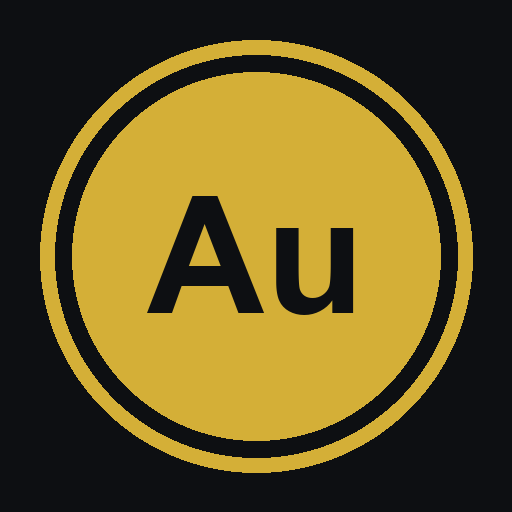
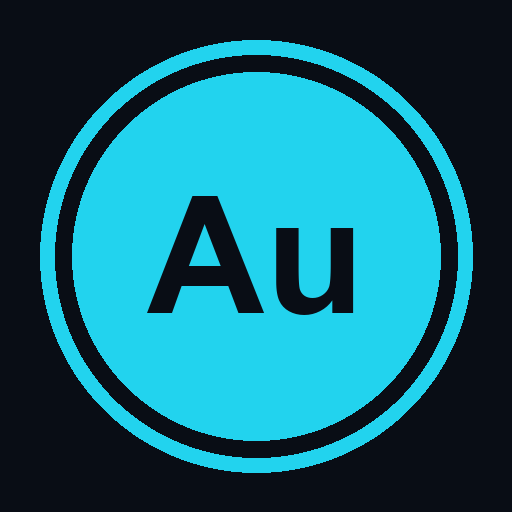
Nouveau thème : sombre néon fintech (bleu/cyan) au lieu de noir/or

diff --git a/css/style.css b/css/style.css
@@ -1,23 +1,25 @@
-/* Gold AI — thème "sombre trading pro", accent or.
+/* Gold AI — thème "sombre néon fintech", accent bleu/cyan.
    Variables centralisées en haut : pour changer le look plus tard,
    modifier ici plutôt que de chercher dans tout le fichier. */
 
 :root {
-  --fond: #0d0f12;
-  --fond-carte: #16191e;
-  --fond-carte-survol: #1c2027;
-  --bordure: #262b33;
-  --texte: #e8e6e1;
-  --texte-attenue: #8a8f98;
-  --or: #d4af37;
-  --or-clair: #e8c968;
-  --vert: #2ecc71;
-  --vert-fond: rgba(46, 204, 113, 0.12);
-  --rouge: #e74c3c;
-  --rouge-fond: rgba(231, 76, 60, 0.12);
-  --orange: #e0983c;
+  --fond: #090d15;
+  --fond-carte: #121a28;
+  --fond-carte-survol: #182236;
+  --bordure: #223049;
+  --texte: #e8edf5;
+  --texte-attenue: #78899e;
+  --accent: #22d3ee;
+  --accent-clair: #7ee8fa;
+  --accent-texte: #04141a;
+  --vert: #2fe0a3;
+  --vert-fond: rgba(47, 224, 163, 0.12);
+  --rouge: #ff4d6d;
+  --rouge-fond: rgba(255, 77, 109, 0.14);
+  --orange: #ffb454;
   --rayon: 12px;
-  --ombre: 0 4px 16px rgba(0, 0, 0, 0.35);
+  --ombre: 0 4px 16px rgba(0, 0, 0, 0.45);
+  --lueur-accent: 0 0 18px rgba(34, 211, 238, 0.35);
 }
 
 * {
@@ -61,7 +63,7 @@ input {
   font-size: 20px;
   font-weight: 700;
   letter-spacing: 0.02em;
-  color: var(--or);
+  color: var(--accent);
 }
 
 .entete .sous-titre {
@@ -127,7 +129,8 @@ h2.titre-section {
 
 .champ input:focus {
   outline: none;
-  border-color: var(--or);
+  border-color: var(--accent);
+  box-shadow: 0 0 0 3px rgba(34, 211, 238, 0.15);
 }
 
 .ligne-champs {
@@ -143,18 +146,19 @@ h2.titre-section {
   gap: 8px;
   width: 100%;
   padding: 14px;
-  background: var(--or);
-  color: #1a1508;
+  background: var(--accent);
+  color: var(--accent-texte);
   border: none;
   border-radius: 8px;
   font-size: 15px;
   font-weight: 700;
   cursor: pointer;
-  transition: background 0.15s ease;
+  box-shadow: var(--lueur-accent);
+  transition: background 0.15s ease, box-shadow 0.15s ease;
 }
 
 .bouton:active {
-  background: var(--or-clair);
+  background: var(--accent-clair);
 }
 
 .bouton.secondaire {
@@ -177,9 +181,10 @@ h2.titre-section {
   align-items: baseline;
   padding: 14px 16px;
   background: var(--fond);
-  border: 1px solid var(--or);
+  border: 1px solid var(--accent);
   border-radius: var(--rayon);
   margin-bottom: 14px;
+  box-shadow: var(--lueur-accent);
 }
 
 .resultat-risque .label {
@@ -190,7 +195,7 @@ h2.titre-section {
 .resultat-risque .valeur {
   font-size: 22px;
   font-weight: 700;
-  color: var(--or);
+  color: var(--accent);
 }
 
 .paliers {
@@ -299,7 +304,7 @@ h2.titre-section {
 }
 
 .badge-impact.medium {
-  background: rgba(224, 152, 60, 0.15);
+  background: rgba(255, 180, 84, 0.15);
   color: var(--orange);
 }
 
@@ -345,7 +350,7 @@ h2.titre-section {
 
 .modale h3 {
   margin: 0 0 4px;
-  color: var(--or);
+  color: var(--accent);
   font-size: 17px;
 }
 
@@ -389,8 +394,8 @@ h2.titre-section {
 .bloc-avertissement {
   margin-top: 16px;
   padding: 12px 14px;
-  background: rgba(224, 152, 60, 0.1);
-  border: 1px solid rgba(224, 152, 60, 0.3);
+  background: rgba(255, 180, 84, 0.1);
+  border: 1px solid rgba(255, 180, 84, 0.3);
   border-radius: 10px;
   font-size: 12px;
   color: var(--orange);
@@ -570,8 +575,9 @@ h2.titre-section {
 }
 
 .case-jour.aujourdhui {
-  border-color: var(--or);
+  border-color: var(--accent);
   border-width: 2px;
+  box-shadow: var(--lueur-accent);
 }
 
 .liste-trades-jour {
@@ -651,7 +657,7 @@ nav.barre-onglets button .icone-onglet {
 }
 
 nav.barre-onglets button.actif {
-  color: var(--or);
+  color: var(--accent);
 }
 
 /* ---------- Petit écran ---------- */

diff --git a/index.html b/index.html
@@ -7,7 +7,7 @@
 
 <!-- PWA : permet l'installation sur l'écran d'accueil -->
 <link rel="manifest" href="manifest.json" />
-<meta name="theme-color" content="#0d0f12" />
+<meta name="theme-color" content="#090d15" />
 
 <!-- iOS ne lit pas toujours le manifest.json pour le mode plein écran :
      ces balises font le même travail spécifiquement pour Safari/iPhone -->

diff --git a/generer_icones.py b/generer_icones.py
@@ -6,9 +6,9 @@ doré sur fond sombre avec "Au" (symbole chimique de l'or) dessus.
 
 from PIL import Image, ImageDraw, ImageFont
 
-FOND = (13, 15, 18)       # anthracite très sombre (cohérent avec le thème "sombre trading pro")
-OR = (212, 175, 55)       # doré
-OR_CLAIR = (232, 199, 99)
+FOND = (9, 13, 21)        # bleu-noir très sombre (thème "sombre néon fintech")
+ACCENT = (34, 211, 238)   # cyan néon
+ACCENT_CLAIR = (126, 232, 250)
 
 
 def generer(taille, chemin):
@@ -18,7 +18,7 @@ def generer(taille, chemin):
     marge = int(taille * 0.08)
     draw.ellipse(
         [marge, marge, taille - marge, taille - marge],
-        outline=OR,
+        outline=ACCENT,
         width=max(2, int(taille * 0.03)),
     )
 
@@ -26,7 +26,7 @@ def generer(taille, chemin):
     centre = taille // 2
     draw.ellipse(
         [centre - rayon_interieur, centre - rayon_interieur, centre + rayon_interieur, centre + rayon_interieur],
-        fill=OR,
+        fill=ACCENT,
     )
 
     texte = "Au"
